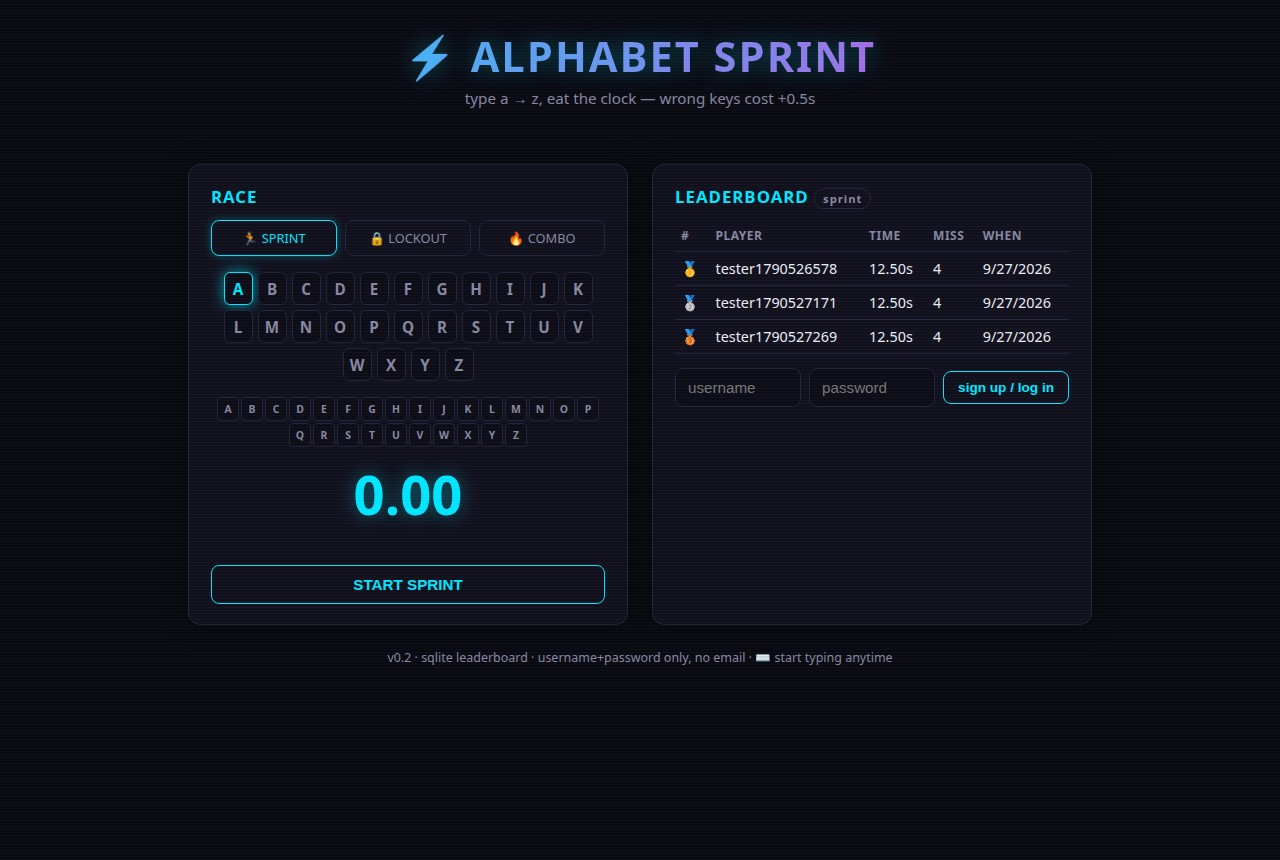
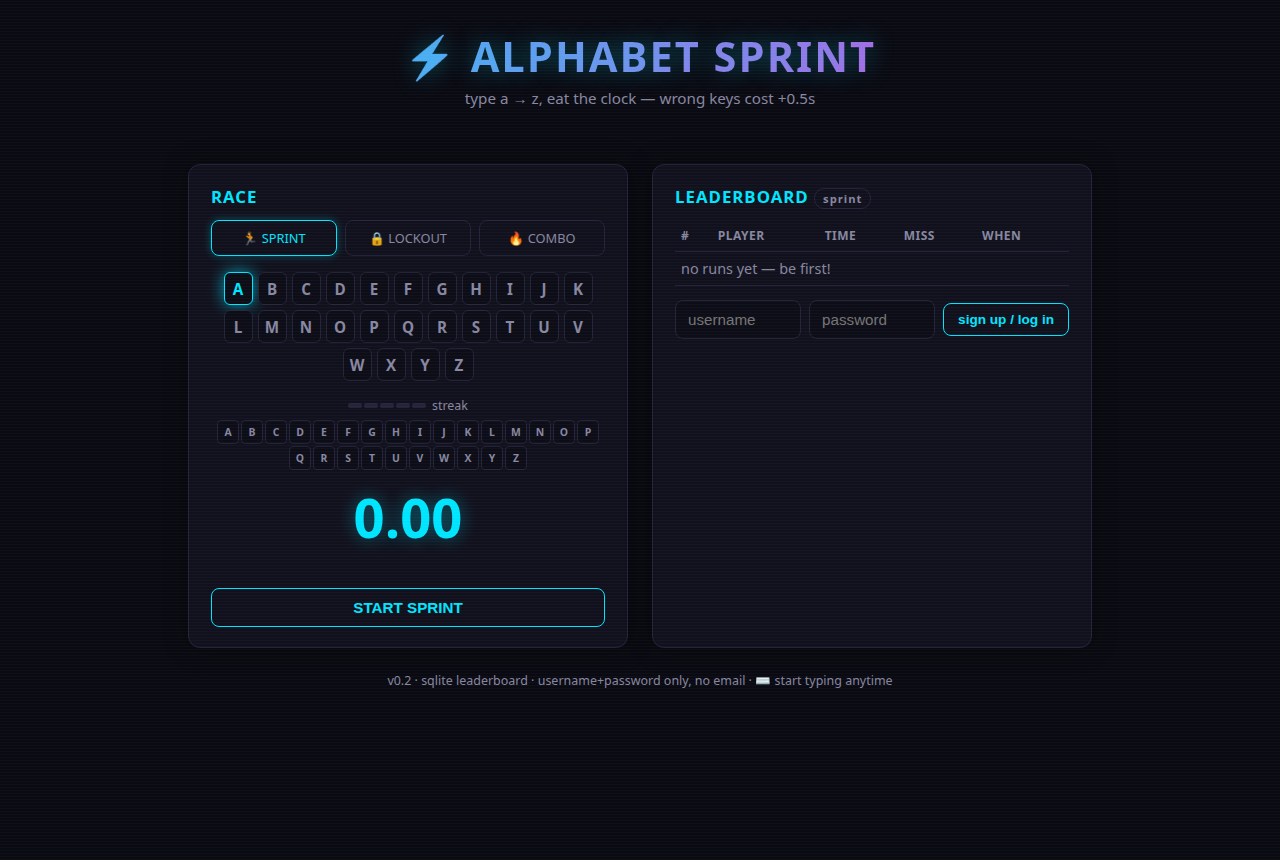
v0.3: README refresh — streak heatmap guide, PB double-wave, milestone beat; board wiped for first real runs; fresh v0.3 screenshots

Changed region(s): [[0.5312, 0.2721, 0.8438, 0.4837], [0.1562, 0.6651, 0.6875, 0.8163], [0.1875, 0.4535, 0.4688, 0.6349]]

diff --git a/README.md b/README.md
@@ -2,17 +2,17 @@
 
 **Type a → z as fast as you can. Eat the clock.**
 
-A tiny, loud, glowing keyboard race built for kids (ADHD-tested: every keypress fires a blip +
-firework + pop in the *same frame*, no waiting ever) and competitive adults (SQLite leaderboard,
+A tiny, loud, glowing keyboard race built for kids (ADHD-first: every keypress fires a blip +
+pop + particle halo in the *same frame*) and competitive adults (SQLite leaderboard,
 spoof-resistant scoring). No email, no accounts drama — username + password only.
 
-![finish line](screenshots/03-finish.png)
+![finish line](screenshots/05-pb-finish.png)
 
 ## How it works
 
 - Type `a` through `z` **in strict order**. Clock starts on your first `a`, stops on `z`.
 - Wrong key = missed slot = **+0.5s penalty** (and it shows you exactly which letter you should have hit).
-- Lower is better. Your best run per mode stands on the board.
+- Lower is better. Your **best run per mode** stands on the server-side leaderboard.
 
 | Mode | Rule | Vibe |
 |------|------|------|
@@ -20,25 +20,43 @@ spoof-resistant scoring). No email, no accounts drama — username + password on
 | 🔒 **Lockout** | wrong key = back to `a`, clock keeps running | brutal, funny |
 | 🔥 **Combo** | wrong key = streak resets | addictive chase |
 
-![mid-run](screenshots/02-mid-run.png)
+## Streak heat — the signature mechanic 🔥
+
+Consecutive correct keys **physically warm the keyboard**. Every 5 clean keys, the whole
+keycap row shifts one tier hotter — and one wrong key cools it instantly:
+
+| Streak | Tier | Default — cyan | green | gold | magenta | **orange + blaze** |
+|--------|------|-----|-------|------|---------|--------------------|
+| | | 5 keys | 10 | 15 | 20 | 25+ — "NUCLEAR" |
+
+The tiny heat meter above the keyboard counts your live streak with the tier name
+(*warm → hot → glowing → blazing → NUCLEAR*), so accuracy becomes self-motivating:
+kids **see** their streak catch fire and feel it evaporate when they slip — no lecture needed.
+
+![streak heat at 10](screenshots/02-midrun-streak10.png)
 
 ## Juice (this matters)
 
-- **Every correct key**: rising musical blip (a→z is a pitch staircase), letter pop, neon keycap flash, firework burst
-- **Every 5 letters**: 🔥 streak badge + screen flash + confetti + cheer word
-- **Finish line**: fanfare, confetti storm, giant glowing time, 🏁
-- **Miss**: red keycap + shake + honest "+0.5s" — never a dead end, never a fail screen
-- Timing uses **`event.timeStamp` / `performance.now()`** (never `Date.now()`), ignores OS key-repeat,
-  so millisecond plateaus and misses are measured on real input events — not render frames.
+- **Every correct key, same frame**: rising musical blip (a→z is a pitch staircase), letter pop,
+  neon keycap flash, particle burst **anchored at the key itself** (never a screen-wide explosion)
+- **Every 5th key**: a subtle gold pulse beat at that key — the chunking rhythm mid-run, no confetti
+- **Every 5 streak**: heat tier up (see above), `streak N — hot/glowing/blazing/NUCLEAR`
+- **Finish line**: fanfare + one modest confetti burst + giant glowing time
+- **Personal best**: a **second staggered confetti wave** — beating yourself *feels* bigger
+- **Miss**: red keycap + shake + honest "+0.5s" — never a dead end, never a fail screen;
+  wrong keys before you start are ignored, not penalized
+- Timing uses **`event.timeStamp` / `performance.now()`** (never `Date.now()`), ignores OS
+  key-repeat, so measurements come from real input events — not render frames
 
-![miss](screenshots/04-miss.png)
+![milestone gold beat](screenshots/03-milestone-gold.png)
+![miss highlight](screenshots/04-miss.png)
 
 ## Run it
 
 ```bash
 pip install fastapi uvicorn
 uvicorn server:app --host 0.0.0.0 --port 8000
-# open http://localhost:8000 — everything (game + API) on one port
+# open http://localhost:8000 — game + API on one port; LAN players use the host's IP
 ```
 
 Data lives in `~/.alphabet-sprint/` (SQLite DB + HMAC secret), deliberately **outside the web root**.
@@ -56,23 +74,24 @@ Data lives in `~/.alphabet-sprint/` (SQLite DB + HMAC secret), deliberately **ou
   numbers don't add up is rejected with a 400.
 - A client-side game can still be scripted. It's a toy leaderboard; the integrity check filters the
   accidental cheats, and we're honest about the rest.
-- One run per user counts on the board (your **best** run per mode, deduplicated server-side).
+- One row per user on the board (your best run per mode, deduplicated server-side).
+- Rate limits: 5 register/min, 10 login/min, 30 scores/min per IP (token bucket).
 
 ## Tech
 
 - **Backend:** Python + FastAPI + SQLite. PBKDF2 (200k iterations) password hashing, HMAC-signed
-  session tokens, in-process token-bucket rate limits, no external deps beyond FastAPI/uvicorn.
+  session tokens, no external deps beyond FastAPI/uvicorn.
 - **Frontend:** one self-contained `index.html`. Vanilla JS, canvas particles, Web Audio synth.
   No frameworks, no build step, no assets.
 - **Privacy:** username + password only. No email. No PII. Passwords are never stored in plaintext
   (PBKDF2-SHA256, per-user salt).
 
-## Roadmap (v2 stretch)
+## Roadmap (v0.4 stretch)
 
-- [ ] **Daily seed** — everyone worldwide gets the same sequence; comparable daily times
+- [ ] **Daily seed** — everyone gets the same sequence; comparable daily times
 - [ ] **Ghost replay** — translucent ghost of your PB races beside you
-- [ ] Global board hardening (rate-limit tuning, moderation)
+- [ ] Escalating back-half intensity (pulse/comet trail speed up past letter N)
 
 ---
 
-*Built with my kids as the primary playtesters. v0.2*
+*Built with my kids as the primary playtesters. v0.3*
